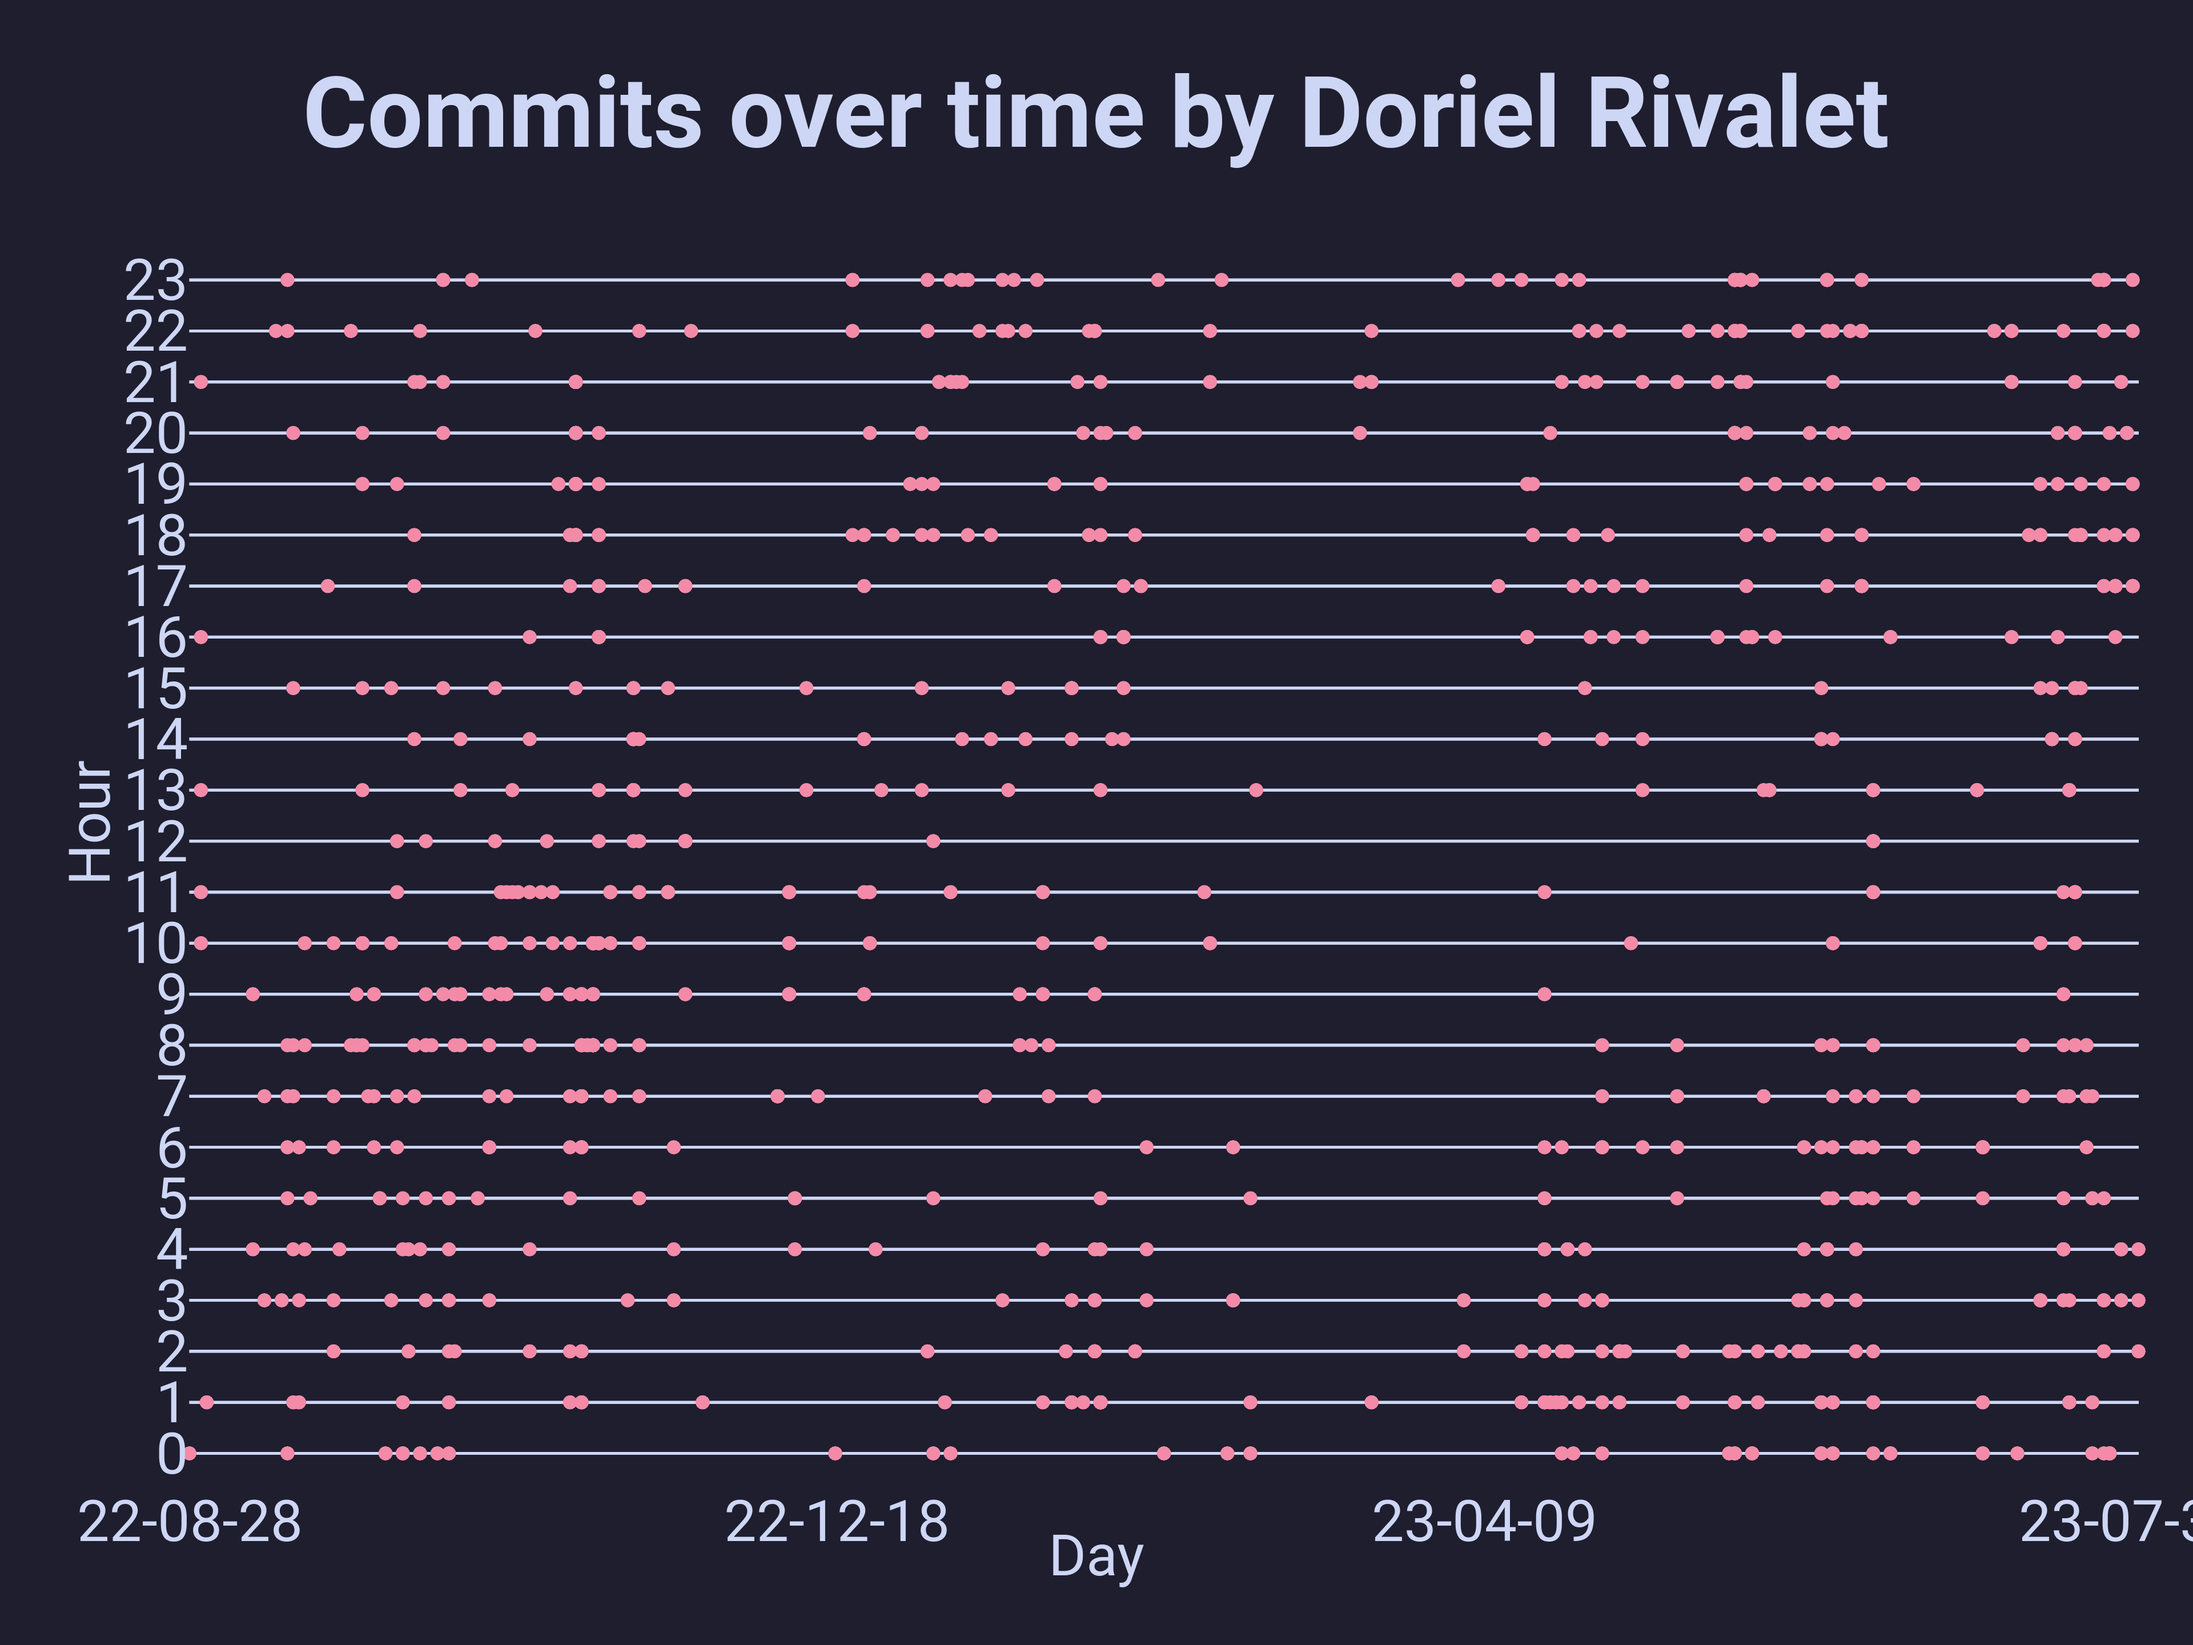
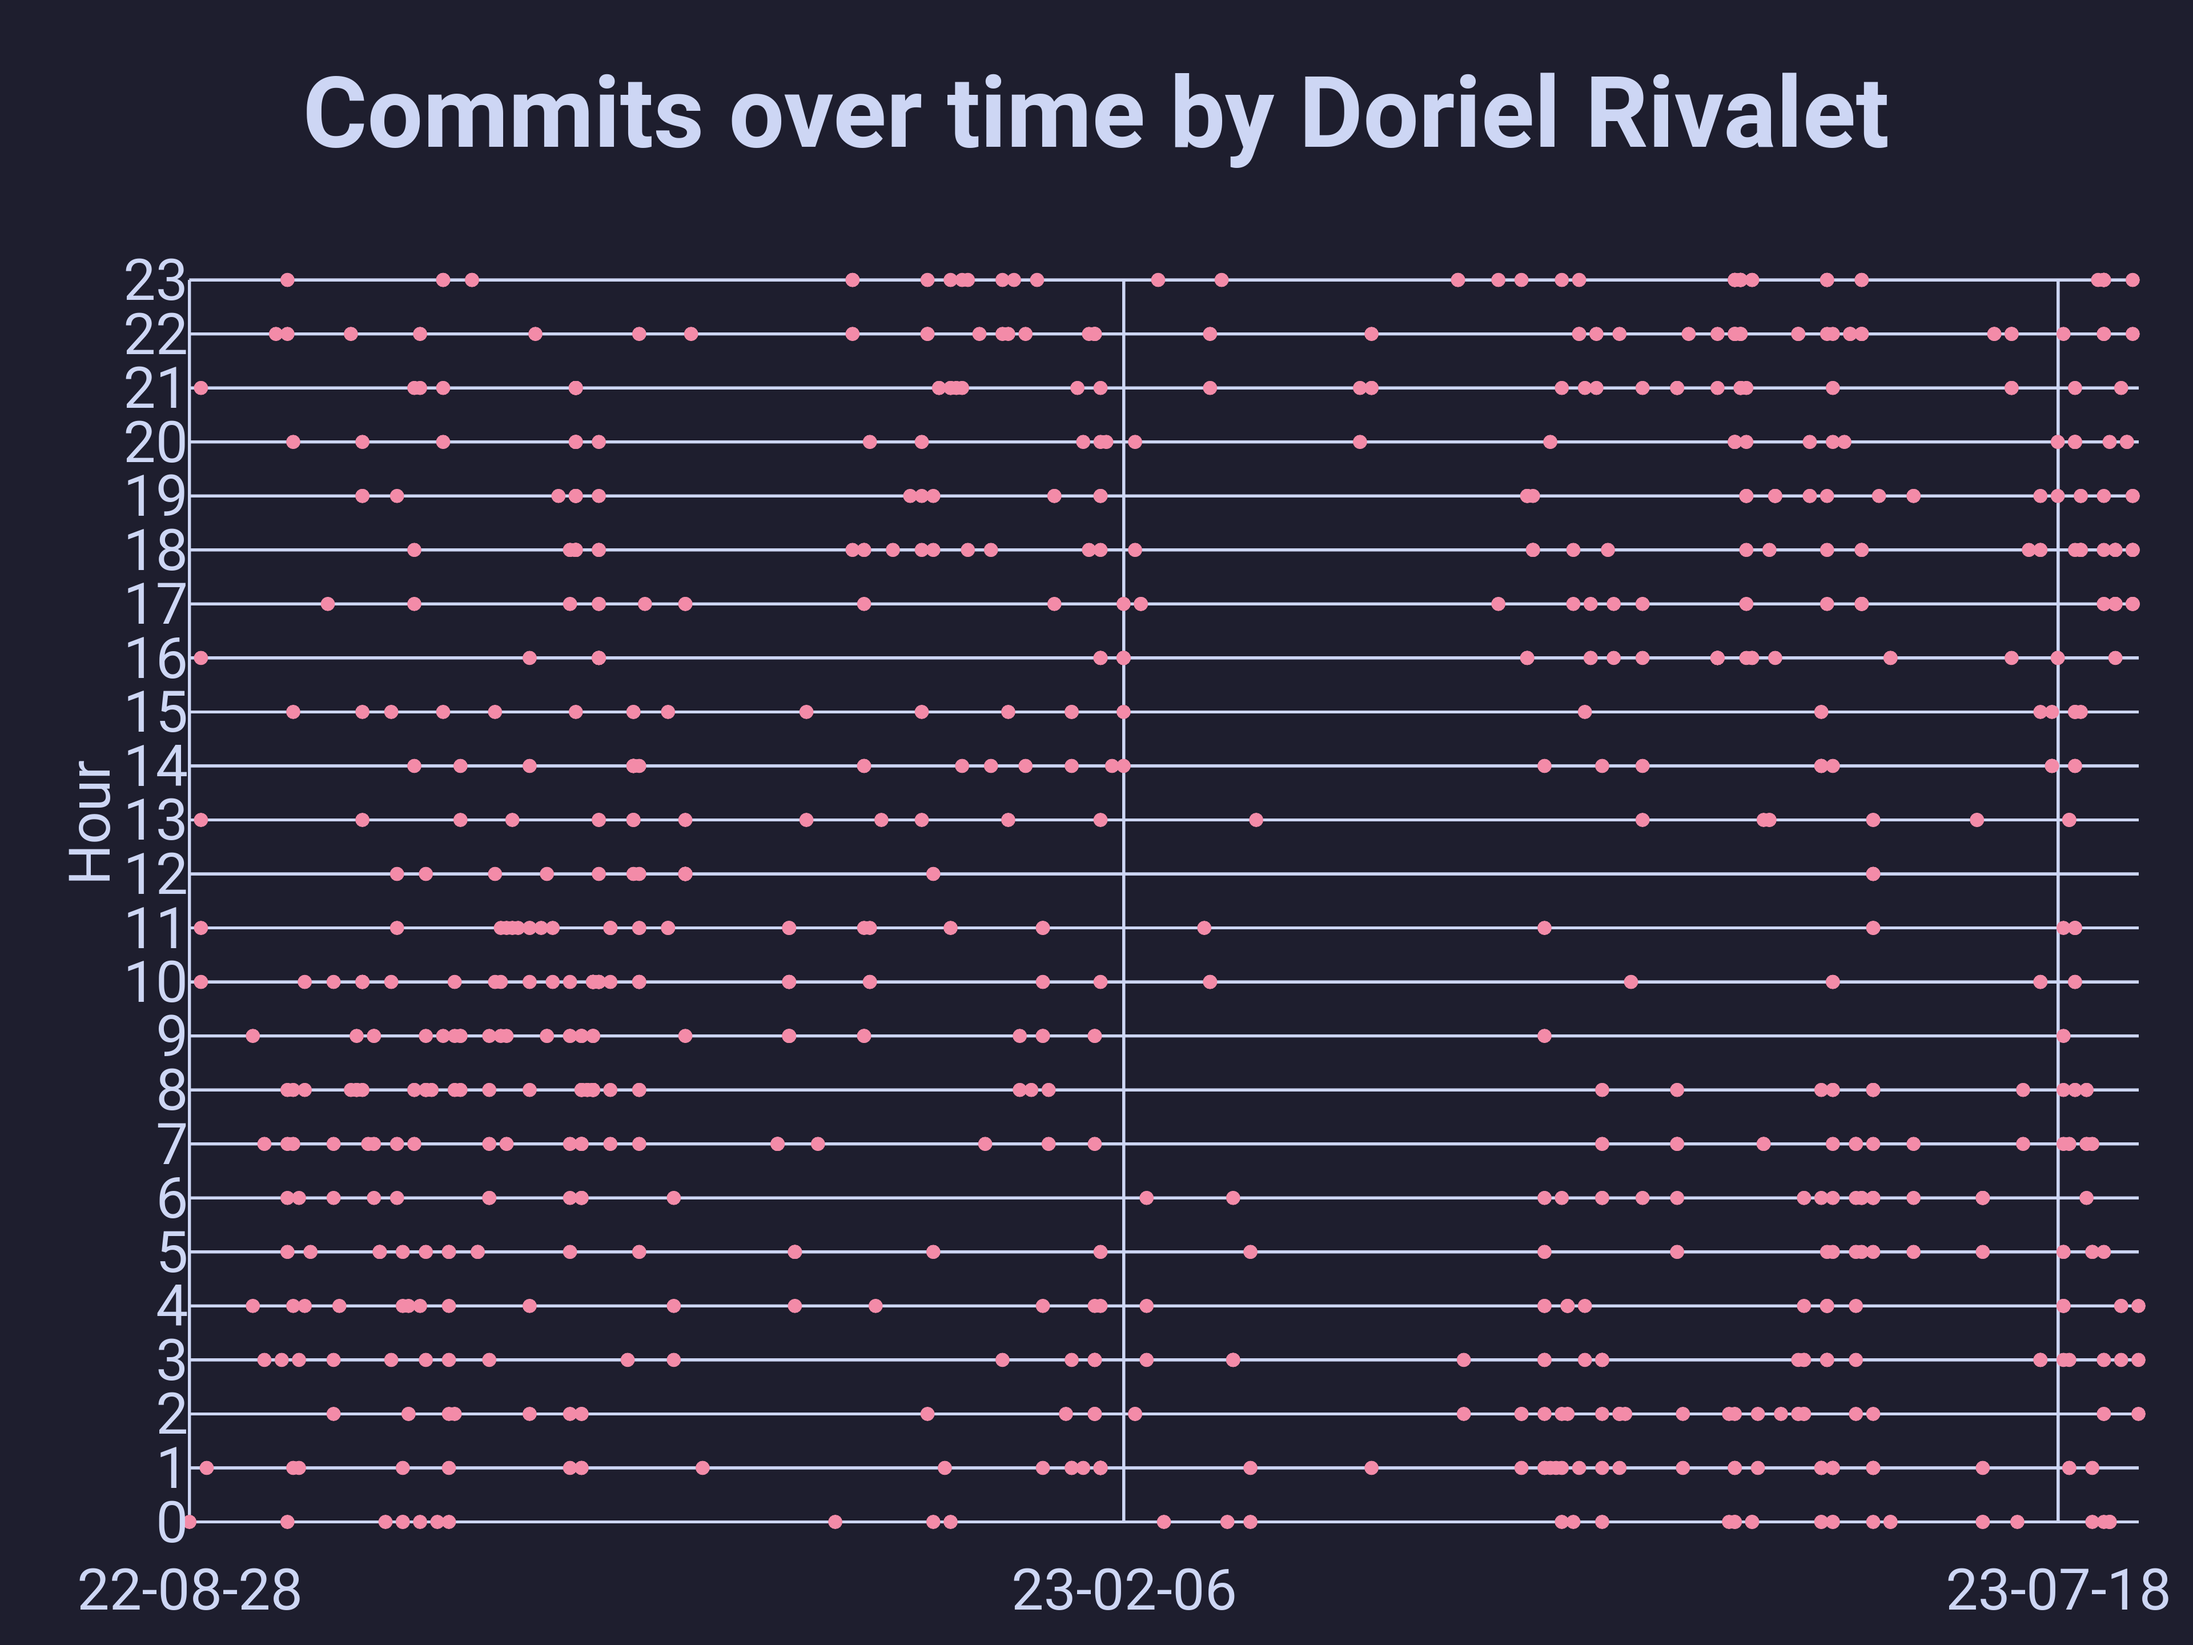
feat: add automatic git stats scripts

Changed region(s): [[0.0312, 0.1875, 1.0, 1.0]]

diff --git a/scripts/commits_per_hour.py b/scripts/commits_per_hour.py
@@ -1,0 +1,69 @@
+import re
+import datetime
+import pandas as pd
+import matplotlib.pyplot as plt
+
+author_name = "Doriel Rivalet"  # replace with your name for display
+author_email = "100863878+DorielRivalet@users.noreply.github.com"  # replace with your email for identification
+input_file = './input/git_anonymized.txt'
+output_file = './output/commits_per_hour.png'
+
+data = []  # this will hold our commit times
+commit_regex = r"Date:\s+(.+)"  # regex to match the datetime line
+author_regex = r"Author:\s+(.+)"  # regex to match the author line
+current_author = None
+
+print("Calculating commits per hour... ")
+
+with open(input_file, 'r', encoding='utf-8') as f:
+    for line in f:
+        author_match = re.search(author_regex, line)
+        if author_match:
+            current_author = author_match.group(1)
+        date_match = re.search(commit_regex, line)
+        if date_match and author_email in current_author:
+            date_string = date_match.group(1)
+            date = datetime.datetime.strptime(date_string, '%a %b %d %H:%M:%S %Y %z')
+            data.append(date)
+
+print("Data: ", data)
+
+# Check if the data list is empty
+if len(data) == 0:
+    print(f"No data for author {author_name} ({author_email}).")
+    exit()
+
+df = pd.DataFrame(data, columns=['datetime'])
+df['datetime'] = pd.to_datetime(df['datetime'], utc=True)
+df['hour'] = df['datetime'].dt.hour  # extract the hour from the datetime
+commits_per_hour = df['hour'].value_counts().sort_index()  # count the number of commits per hour
+
+# Use a dark background
+plt.style.use('dark_background')
+
+# Set figure size
+fig_width = 10  # width in inches
+fig_height = 5.625  # height in inches (to maintain the 16:9 aspect ratio)
+plt.figure(figsize=(fig_width, fig_height))
+
+ax = plt.gca()
+ax.bar(commits_per_hour.index, commits_per_hour.values, color='#f38ba8')
+plt.xlabel('Hour of the Day', color='#cdd6f4')
+plt.ylabel('Number of Commits', color='#cdd6f4')
+plt.title(f'Number of Commits per Hour by {author_name}', color='#cdd6f4')
+plt.xticks(range(24), color='#cdd6f4')  # Ensure all hours from 0 to 23 are shown
+plt.yticks(color='#cdd6f4')  # Set y-ticks color
+
+# Add horizontal lines at each y-tick
+for y_marker in ax.get_yticks():
+    ax.axhline(y=y_marker, color='#cdd6f4', linestyle='--', alpha=0.5)
+
+# Calculate dpi for 1080p resolution
+dpi_width = 1920 / fig_width
+dpi_height = 1080 / fig_height
+dpi = max(dpi_width, dpi_height)
+
+# Set dpi to control the size of the output image
+# Save the figure as a PNG image
+plt.savefig(output_file, dpi=dpi)
+plt.show()

diff --git a/scripts/commits_type_count.rb b/scripts/commits_type_count.rb
@@ -1,0 +1,91 @@
+# frozen_string_literal: true
+
+require 'gruff'
+
+author_name = 'Doriel Rivalet' # used for display only
+author_email = '100863878+DorielRivalet@users.noreply.github.com' # used for identification
+input_file = './input/git_anonymized.txt'
+output_file = './output/commit_types.png'
+valid_commit_types = %w[build chore ci docs feat fix perf refactor revert style test]
+
+commit_type_counts = {
+  'build' => 0,
+  'chore' => 0,
+  'ci' => 0,
+  'docs' => 0,
+  'feat' => 0,
+  'fix' => 0,
+  'perf' => 0,
+  'refactor' => 0,
+  'revert' => 0,
+  'style' => 0,
+  'test' => 0
+}
+email_regex = /<(.*)>/
+commit_regex = /commit\s+(.+)/
+author_regex = /Author:\s+(.+)/
+commit_message_regex = /^\s+(.+)/
+current_author = nil
+current_commit = nil
+
+puts 'Calculating commit types count...'
+
+File.open(input_file, 'r').each_line do |line|
+  author_match = line.match(author_regex)
+  commit_match = line.match(commit_regex)
+  if author_match
+    current_author = author_match[1]
+    email_match = current_author.match(email_regex)
+    current_author = email_match[1] if email_match
+  elsif commit_match && current_author == author_email
+    current_commit = commit_match[1]
+  else
+    commit_message_match = line.match(commit_message_regex)
+    if commit_message_match && current_commit
+      commit_type = commit_message_match[1].split(':').first.strip.downcase
+      commit_type_counts[commit_type] += 1 if valid_commit_types.include?(commit_type)
+      current_commit = nil
+    end
+  end
+end
+
+puts "Data: #{commit_type_counts}"
+
+# Check if the data array is empty
+if commit_type_counts.values.all?(&:zero?)
+  puts "No data for author #{author_name} (#{author_email})."
+  exit
+end
+
+# Create the chart object
+g = Gruff::Bar.new
+
+g.hide_legend = true
+g.title = "Commit types by #{author_name}"
+g.y_axis_label = 'Count'
+g.y_axis_increment = 50
+g.show_labels_for_bar_values = true
+g.minimum_value = 0
+g.marker_font_size = 16
+
+# Set the commit types as custom labels
+commit_labels = valid_commit_types.map { |type| [valid_commit_types.index(type), type] }.to_h
+g.labels = commit_labels
+
+# Define a custom theme
+g.theme = {
+  colors: ['#f38ba8'],
+  marker_color: '#cdd6f4',
+  font_color: '#cdd6f4',
+  background_colors: '#1e1e2e'
+}
+
+# Define a lambda function for label formatting to remove the .00
+g.label_formatting = lambda do |value|
+  value.to_i.to_s
+end
+
+# Make a single data series with all the commit counts
+g.data('Commits', commit_type_counts.values)
+
+g.write(output_file)

diff --git a/scripts/commits_per_weekday.py b/scripts/commits_per_weekday.py
@@ -5,13 +5,15 @@ import matplotlib.pyplot as plt
 
 author_name = "Doriel Rivalet"  # replace with your name for display
 author_email = "100863878+DorielRivalet@users.noreply.github.com"  # replace with your email for identification
-input_file = './input/git.txt'
-output_file = './output/commits_per_hour.png'
+input_file = './input/git_anonymized.txt'
+output_file = './output/commits_per_day_of_week.png'
 
 data = []  # this will hold our commit times
 commit_regex = r"Date:\s+(.+)"  # regex to match the datetime line
 author_regex = r"Author:\s+(.+)"  # regex to match the author line
 current_author = None
+
+print("Calculating commits per day of the week... ")
 
 with open(input_file, 'r', encoding='utf-8') as f:
     for line in f:
@@ -33,8 +35,9 @@ if len(data) == 0:
 
 df = pd.DataFrame(data, columns=['datetime'])
 df['datetime'] = pd.to_datetime(df['datetime'], utc=True)
-df['hour'] = df['datetime'].dt.hour  # extract the hour from the datetime
-commits_per_hour = df['hour'].value_counts().sort_index()  # count the number of commits per hour
+
+# Count the number of commits per day of the week
+commits_per_day_of_week = df['datetime'].dt.dayofweek.value_counts().sort_index()
 
 # Use a dark background
 plt.style.use('dark_background')
@@ -44,12 +47,17 @@ fig_width = 10  # width in inches
 fig_height = 5.625  # height in inches (to maintain the 16:9 aspect ratio)
 plt.figure(figsize=(fig_width, fig_height))
 
-plt.bar(commits_per_hour.index, commits_per_hour.values, color='#f38ba8')
-plt.xlabel('Hour of the Day', color='#cdd6f4')
+ax = plt.gca()
+ax.bar(commits_per_day_of_week.index, commits_per_day_of_week.values, color='#f38ba8')
+plt.xlabel('Day of the Week', color='#cdd6f4')
 plt.ylabel('Number of Commits', color='#cdd6f4')
-plt.title(f'Number of Commits per Hour by {author_name}', color='#cdd6f4')
-plt.xticks(range(24), color='#cdd6f4')  # Ensure all hours from 0 to 23 are shown
+plt.title(f'Number of Commits per Day of the Week by {author_name}', color='#cdd6f4')
+plt.xticks(range(7), ['Monday', 'Tuesday', 'Wednesday', 'Thursday', 'Friday', 'Saturday', 'Sunday'], color='#cdd6f4')
 plt.yticks(color='#cdd6f4')  # Set y-ticks color
+
+# Add horizontal lines at each y-tick
+for y_marker in ax.get_yticks():
+    ax.axhline(y=y_marker, color='#cdd6f4', linestyle='--', alpha=0.5)
 
 # Calculate dpi for 1080p resolution
 dpi_width = 1920 / fig_width

diff --git a/scripts/commits_over_time.rb b/scripts/commits_over_time.rb
@@ -1,16 +1,20 @@
+# frozen_string_literal: true
+
 require 'date'
 require 'gruff'
 
 author_name = 'Doriel Rivalet' # used for display only
 author_email = '100863878+DorielRivalet@users.noreply.github.com' # used for identification
-input_file = './input/git.txt'
+input_file = './input/git_anonymized.txt'
 output_file = './output/commits_over_time.png'
 
 data = []
-email_regex = /<(.*)>/ 
+email_regex = /<(.*)>/
 commit_regex = /Date:\s+(.+)/
 author_regex = /Author:\s+(.+)/
 current_author = nil
+
+puts 'Calculating commits over time...'
 
 File.open(input_file, 'r').each_line do |line|
   author_match = line.match(author_regex)
@@ -37,16 +41,17 @@ if data.empty?
   exit
 end
 
-g = Gruff::Scatter.new(3840)  # the width of the image in pixels
+g = Gruff::Scatter.new(3840) # the width of the image in pixels
 g.title = "Commits over time by #{author_name}"
-g.x_axis_label = "Day"
-g.y_axis_label = "Hour"
+g.y_axis_label = 'Hour'
 g.y_axis_increment = 1
 g.minimum_value = 0
 g.maximum_value = 23
-g.circle_radius = 2  # You can adjust the size of the dots here
+g.circle_radius = 2 # You can adjust the size of the dots here
 g.hide_legend = true
 g.label_margin = 0
+g.show_vertical_markers = true
+g.marker_x_count = 2
 
 # Set the label format from an integer into the date format YY-MM-DD
 g.x_axis_label_format = lambda do |value|

diff --git a/scripts/README.md b/scripts/README.md
@@ -6,16 +6,22 @@ The git information is retrieved in the following ways, in the root of the repos
 
 - Windows
 
-```text
+```bash
 set LC_ALL=C.UTF-8
 git log --numstat > ./scripts/input/git.txt
 ```
 
 - Unix
 
-```text
+```bash
 export LANG=en_US.UTF-8
 git log --numstat > ./scripts/input/git.txt
+```
+
+We then run the following command:
+
+```bash
+luajit rename_emails.lua
 ```
 
 ## Dependencies
@@ -29,3 +35,14 @@ git log --numstat > ./scripts/input/git.txt
 
 - Pandas
 - Matplotlib
+
+## Usage
+
+```bash
+python ./commits_per_hour.py; python ./commits_per_weekday.py
+ruby ./commits_over_time.rb; ruby ./commits_type_count.rb
+```
+
+## GitHub Actions
+
+TODO
